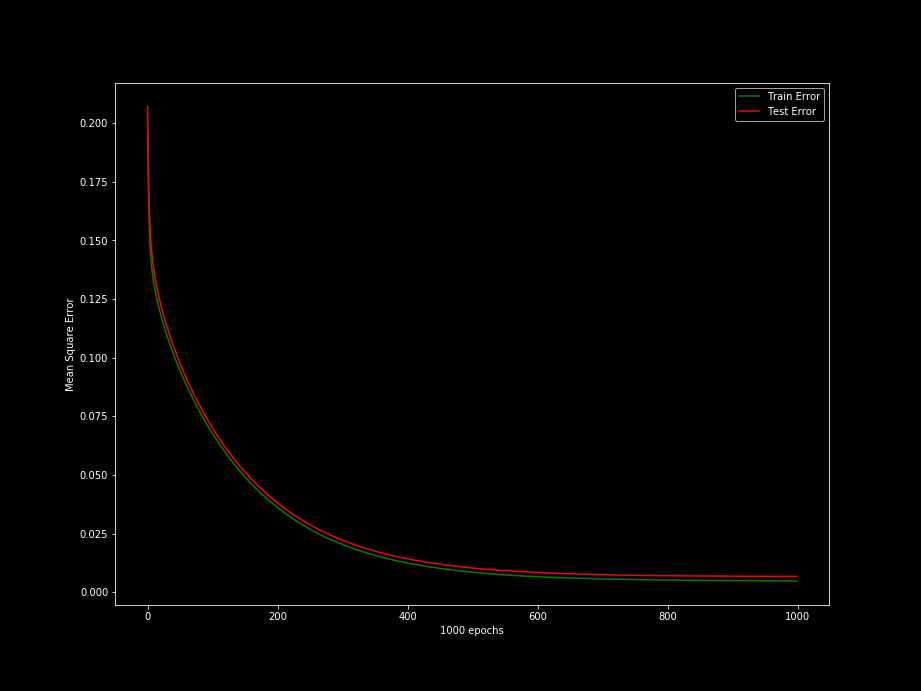
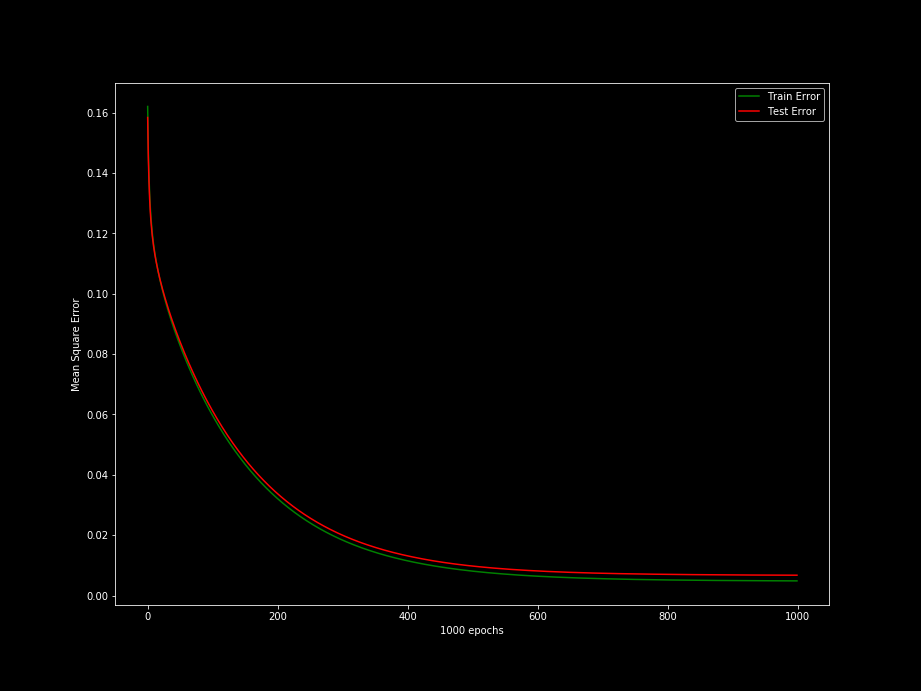
Update 1b

diff --git a/start_project_1b.py b/start_project_1b.py
@@ -7,17 +7,20 @@ import tensorflow as tf
 import numpy as np
 import matplotlib.pyplot as plt
 import math
+import pandas as pd
 
 tf.compat.v1.logging.set_verbosity(tf.compat.v1.logging.ERROR)
 
-def ffn(x, neuron_size, weight_decay_beta, layers=3):
-    """Feedforward net with 1 hidden layer
+def ffn(x, feature_size, neuron_size, weight_decay_beta, layers=3, dropout=False):
+    """Feedforward net with hidden layers
     """
     sum_regularization = 0
     with tf.name_scope('hidden'):
-        weights = tf.Variable(tf.truncated_normal([NUM_FEATURES, neuron_size], stddev=1.0 / np.sqrt(NUM_FEATURES), dtype=tf.float32), name='weights')
+        weights = tf.Variable(tf.truncated_normal([feature_size, neuron_size], stddev=1.0 / np.sqrt(feature_size), dtype=tf.float32), name='weights')
         biases = tf.Variable(tf.zeros([neuron_size]), dtype=tf.float32, name='biases')
         h  = tf.nn.relu(tf.matmul(x, weights) + biases)
+        if dropout:
+            h = tf.nn.dropout(h, 0.8)
         sum_regularization += weight_decay_beta * tf.nn.l2_loss(weights)
     if layers > 3:
         for i in range(layers-3):
@@ -25,6 +28,8 @@ def ffn(x, neuron_size, weight_decay_beta, layers=3):
                 weights = tf.Variable(tf.truncated_normal([neuron_size, neuron_size], stddev=1.0 / np.sqrt(neuron_size), dtype=tf.float32), name='weights')
                 biases = tf.Variable(tf.zeros([neuron_size]), dtype=tf.float32, name='biases')
                 h  = tf.nn.relu(tf.matmul(h, weights) + biases)
+                if dropout:
+                    h = tf.nn.dropout(h, 0.8)
                 sum_regularization += weight_decay_beta * tf.nn.l2_loss(weights)
     with tf.name_scope('linear'):
         weights = tf.Variable(tf.truncated_normal([neuron_size, 1], stddev=1.0 / np.sqrt(neuron_size), dtype=tf.float32), name='weights')
@@ -35,6 +40,83 @@ def ffn(x, neuron_size, weight_decay_beta, layers=3):
 
     return u, sum_regularization
 
+def create_model(feature_size, neuron_size, weight_decay_beta, learning_rate, layers=3, dropout=False):
+    # Create the model
+    x = tf.placeholder(tf.float32, [None, feature_size])
+    y_ = tf.placeholder(tf.float32, [None, 1])
+    y, regularizer = ffn(x, feature_size, neuron_size, weight_decay_beta, layers=layers, dropout=dropout)
+
+    #Create the gradient descent optimizer with the given learning rate.
+    optimizer = tf.train.GradientDescentOptimizer(learning_rate)
+    cost = tf.square(y_ - y)
+    loss = tf.reduce_mean(cost + regularizer)
+    train_op = optimizer.minimize(loss)
+    return y, train_op, y_, x, loss
+
+def train_model(train_op, train_x, train_y, test_x, test_y, y, y_, x, loss ,sample_X=[]):
+    with tf.Session() as sess:
+        sess.run(tf.global_variables_initializer())
+        train_err = []
+        test_err = []
+        prediction = []
+        for i in range(epochs):
+            # Handle in batches
+            for start, end in zip(range(0, len(train_x), batch_size), range(batch_size, len(train_x), batch_size)):
+                train_op.run(feed_dict={x: train_x[start:end], y_: train_y[start:end]})
+            err = loss.eval(feed_dict={x: train_x, y_: train_y})
+            test_err_ = loss.eval(feed_dict={x: test_x, y_: test_y})
+            train_err.append(err)
+            test_err.append(test_err_)
+
+            if i % 100 == 0:
+                print('iter %d: train error %g'%(i, train_err[i]))
+        if sample_X != []:
+            prediction = sess.run(y, feed_dict={x: sample_X})
+    return test_err, train_err, prediction
+
+def plot_rfe_loss(filename, x_headers, epochs, plot_list):
+    fig, ax = plt.subplots(figsize=[12.8,9.6])
+    # plt.figure(1)
+    for i, plot in enumerate(plot_list):
+        plt.plot(range(epochs), plot[-epochs:], label=f'Without {x_headers[i]}')
+    plt.xlabel(str(epochs) + ' epochs')
+    plt.ylabel('Mean Square Error')
+    ax.legend(loc='best')
+    plt.savefig(filename)
+    plt.show()
+
+def plot_acc_vs_pred(filename, prediction, Y_data):
+    fig, ax = plt.subplots(figsize=[12.8,9.6])
+    plt.plot(range(50), prediction, label=f'Prediction')
+    plt.plot(range(50), Y_data[-50:], label=f'Actual')
+    plt.xlabel(str(50) + ' epochs')
+    plt.ylabel('Prediction')
+    ax.legend(loc='best')
+    plt.savefig(filename)
+    plt.show()
+
+def plot_train_test_err(filename, epochs, train_err, test_err):
+    fig, ax = plt.subplots(figsize=[12.8,9.6])
+    plt.plot(range(epochs), train_err, label=f'Train Error', color='green')
+    plt.plot(range(epochs), test_err, label=f'Test Error', color='red')
+    plt.xlabel(str(epochs) + ' epochs')
+    plt.ylabel('Mean Square Error')
+    ax.legend(loc='best')
+    plt.savefig(filename)
+    plt.show()
+
+def plot_layer_comp(filename, epochs, err_list, train_or_test):
+    fig, ax = plt.subplots(figsize=[12.8,9.6])
+    for i in range(3):
+        plt.plot(range(epochs), err_list[2*i], label=f'{train_or_test} {i+3}-layer net without dropout')
+        plt.plot(range(epochs), err_list[2*i+1], label=f'{train_or_test} {i+3}-layer net with dropout')
+    plt.xlabel(str(epochs) + ' epochs')
+    plt.ylabel('Mean Square Error')
+    ax.legend(loc='best')
+    plt.savefig(filename)
+    plt.show()
+
+# Initial base parameters
 NUM_FEATURES = 7
 
 learning_rate = 0.01
@@ -58,75 +140,131 @@ X_data, Y_data = X_data[idx], Y_data[idx]
 # experiment with small datasets
 # trainX = X_data[:100]
 # trainY = Y_data[:100]
-trainX = X_data[:50]
-trainY = Y_data[:50]
+trainX = X_data
+trainY = Y_data
 
 trainX = (trainX- np.mean(trainX, axis=0))/ np.std(trainX, axis=0)
 
 test_split_num = int(len(trainX) * test_split)
-train_x, test_x = trainX[:test_split_num], trainX[test_split_num:]
-train_y, test_y = trainY[:test_split_num], trainY[test_split_num:]
+train_x, test_x = trainX[test_split_num:], trainX[:test_split_num]
+train_y, test_y = trainY[test_split_num:], trainY[:test_split_num]
 
-# Create the model
-x = tf.placeholder(tf.float32, [None, NUM_FEATURES])
-y_ = tf.placeholder(tf.float32, [None, 1])
+sample_X = trainX[-50:]
 
-y, regularizer = ffn(x, neuron_size, weight_decay_beta)
-
-#Create the gradient descent optimizer with the given learning rate.
-optimizer = tf.train.GradientDescentOptimizer(learning_rate)
-cost = tf.square(y_ - y)
-loss = tf.reduce_mean(cost + regularizer)
-train_op = optimizer.minimize(loss)
-
-with tf.Session() as sess:
-    sess.run(tf.global_variables_initializer())
-    train_err = []
-    test_err = []
-    prediction = []
-    for i in range(epochs):
-        # Handle in batches
-        for start, end in zip(range(0, len(train_x), batch_size), range(batch_size, len(train_x), batch_size)):
-            train_op.run(feed_dict={x: train_x[start:end], y_: train_y[start:end]})
-        err = loss.eval(feed_dict={x: train_x, y_: train_y})
-        test_err_ = loss.eval(feed_dict={x: test_x, y_: test_y})
-        train_err.append(err)
-        test_err.append(test_err_)
-
-        if i % 100 == 0:
-            print('iter %d: train error %g'%(i, train_err[i]))
-    for i in range(50):
-        pred = train_op.run(loss, feed_dict={x: X_data[:-50]})
-        prediction.append(pred)
 #%%
-print(np.array(prediction))
+# Q1
+y, train_op, y_, x, loss = create_model(NUM_FEATURES, neuron_size, weight_decay_beta, learning_rate)
+test_err, train_err, prediction = train_model(train_op, train_x, train_y, test_x, test_y, y, y_, x, loss, sample_X)
 #%%
-# plot learning curves
-fig, ax = plt.subplots()
-# plt.figure(1)
-plt.plot(range(epochs), train_err, label=f'Train Error')
-plt.plot(range(epochs), test_err, label=f'Test Error')
-plt.xlabel(str(epochs) + ' epochs')
-plt.ylabel('Mean Square Error')
-ax.legend(loc='best')
-plt.savefig('plots2/part2_Q1a')
-plt.show()
-#%%
-fig, ax = plt.subplots()
-# plt.figure(1)
-plt.plot(range(50), prediction[0], label=f'Prediction')
-plt.plot(range(50), Y_data[:-50], label=f'Actual')
-plt.xlabel(str(50) + ' epochs')
-plt.ylabel('Prediction')
-ax.legend(loc='best')
-# plt.savefig('plots2/part2_Q1c')
-plt.show()
+plot_train_test_err('plots2/part2_Q1a', epochs, train_err, test_err)
+plot_acc_vs_pred('plots2/part2_Q1c', prediction, Y_data)
 
 #%%
 # Q2a
-import pandas as pd
 df = pd.read_csv('admission_predict.csv')
 df = df.iloc[:,1:]
 df = df.corr()
 df.to_csv('plots2/correlation_matrix.csv')
+
 #%%
+# Q3p1
+y, train_op, y_, x, loss = create_model(6, neuron_size, weight_decay_beta, learning_rate)
+test_err_list = []
+train_err_list = []
+prediction_list = []
+x_headers = ['GRE Score','TOEFL Score','University Rating','SOP','LOR','CGPA','Research']
+
+for i in range(7):
+    if i == 0:
+        train_x_ = train_x[:, i+1:]
+        test_x_ = test_x[:, i+1:]
+        print(f'With {x_headers[i+1:]}')
+    elif i == 6:
+        train_x_ = train_x[:, :i]
+        test_x_ = test_x[:, :i]
+        print(f'With {x_headers[:i]}')
+    else:
+        train_x_ = np.append(train_x[:, :i], train_x[:, i+1:], axis=1)
+        test_x_ = np.append(test_x[:, :i], test_x[:, i+1:], axis=1)
+        print(f'With {np.append(x_headers[:i], x_headers[i+1:], axis=0)}')
+    test_err, train_err, prediction = train_model(train_op, train_x_, train_y, test_x_, test_y, y, y_, x, loss)
+    test_err_list.append(test_err)
+    train_err_list.append(train_err)
+    prediction_list.append(prediction)
+
+#%%
+# Conclusion: Remove University Ranking
+plot_rfe_loss('plots2/part3_1', x_headers, epochs, train_err_list)
+plot_rfe_loss('plots2/part3_2', x_headers, epochs, test_err_list)
+plot_rfe_loss('plots2/part3_3', x_headers, 100, test_err_list)
+
+#%%
+# Q3p2. Remove University Ranking
+y, train_op, y_, x, loss = create_model(5, neuron_size, weight_decay_beta, learning_rate)
+test_err_list = []
+train_err_list = []
+prediction_list = []
+x_headers2 = ['GRE Score','TOEFL Score','SOP','LOR','CGPA','Research']
+
+for i in range(6):
+    # Remove University Ranking
+    train_x_ = np.append(train_x[:, :2], train_x[:, 2+1:], axis=1)
+    test_x_ = np.append(test_x[:, :2], test_x[:, 2+1:], axis=1)
+    if i == 0:
+        train_x_2 = train_x_[:, i+1:]
+        test_x_2 = test_x_[:, i+1:]
+        print(f'With {x_headers2[i+1:]}')
+    elif i == 6:
+        train_x_2 = train_x_[:, :i]
+        test_x_2 = test_x_[:, :i]
+        print(f'With {x_headers2[:i]}')
+    else:
+        train_x_2 = np.append(train_x_[:, :i], train_x_[:, i+1:], axis=1)
+        test_x_2 = np.append(test_x_[:, :i], test_x_[:, i+1:], axis=1)
+        print(f'With {np.append(x_headers2[:i], x_headers2[i+1:], axis=0)}')
+    test_err, train_err, prediction = train_model(train_op, train_x_2, train_y, test_x_2, test_y, y, y_, x, loss)
+    test_err_list.append(test_err)
+    train_err_list.append(train_err)
+    prediction_list.append(prediction)
+
+#%%
+# Conclusion: Remove SOP
+plot_rfe_loss('plots2/part3_4', x_headers2, epochs, train_err_list)
+plot_rfe_loss('plots2/part3_5', x_headers2, epochs, test_err_list)
+plot_rfe_loss('plots2/part3_6', x_headers2, 100, test_err_list)
+
+#%%
+# Q4. Neuron size 50, 4 and 5 layer network, learning rate 10e-3, 
+# features = ['GRE Score','TOEFL Score','LOR','CGPA','Research']
+test_err_list = []
+train_err_list = []
+prediction_list = []
+
+# Remove University Ranking
+train_x_ = np.append(train_x[:, :2], train_x[:, 2+1:], axis=1)
+test_x_ = np.append(test_x[:, :2], test_x[:, 2+1:], axis=1)
+# Remove SOP
+train_x_ = np.append(train_x_[:, :2], train_x_[:, 2+1:], axis=1)
+test_x_ = np.append(test_x_[:, :2], test_x_[:, 2+1:], axis=1)
+
+for i in range(3, 6):
+    # No Dropouts
+    y, train_op, y_, x, loss = create_model(5, neuron_size, weight_decay_beta, learning_rate, layers=i)
+
+    test_err, train_err, prediction = train_model(train_op, train_x_, train_y, test_x_, test_y, y, y_, x, loss)
+    test_err_list.append(test_err)
+    train_err_list.append(train_err)
+    prediction_list.append(prediction)
+
+    # With Dropouts
+    y, train_op, y_, x, loss = create_model(5, neuron_size, weight_decay_beta, learning_rate, layers=i, dropout=True)
+
+    test_err, train_err, prediction = train_model(train_op, train_x_, train_y, test_x_, test_y, y, y_, x, loss)
+    test_err_list.append(test_err)
+    train_err_list.append(train_err)
+    prediction_list.append(prediction)
+
+#%%
+# 3-layer net without dropout is the best
+plot_layer_comp('plots2/part4_1', epochs, test_err_list, 'Test')
+plot_layer_comp('plots2/part4_2', epochs, train_err_list, 'Train')
